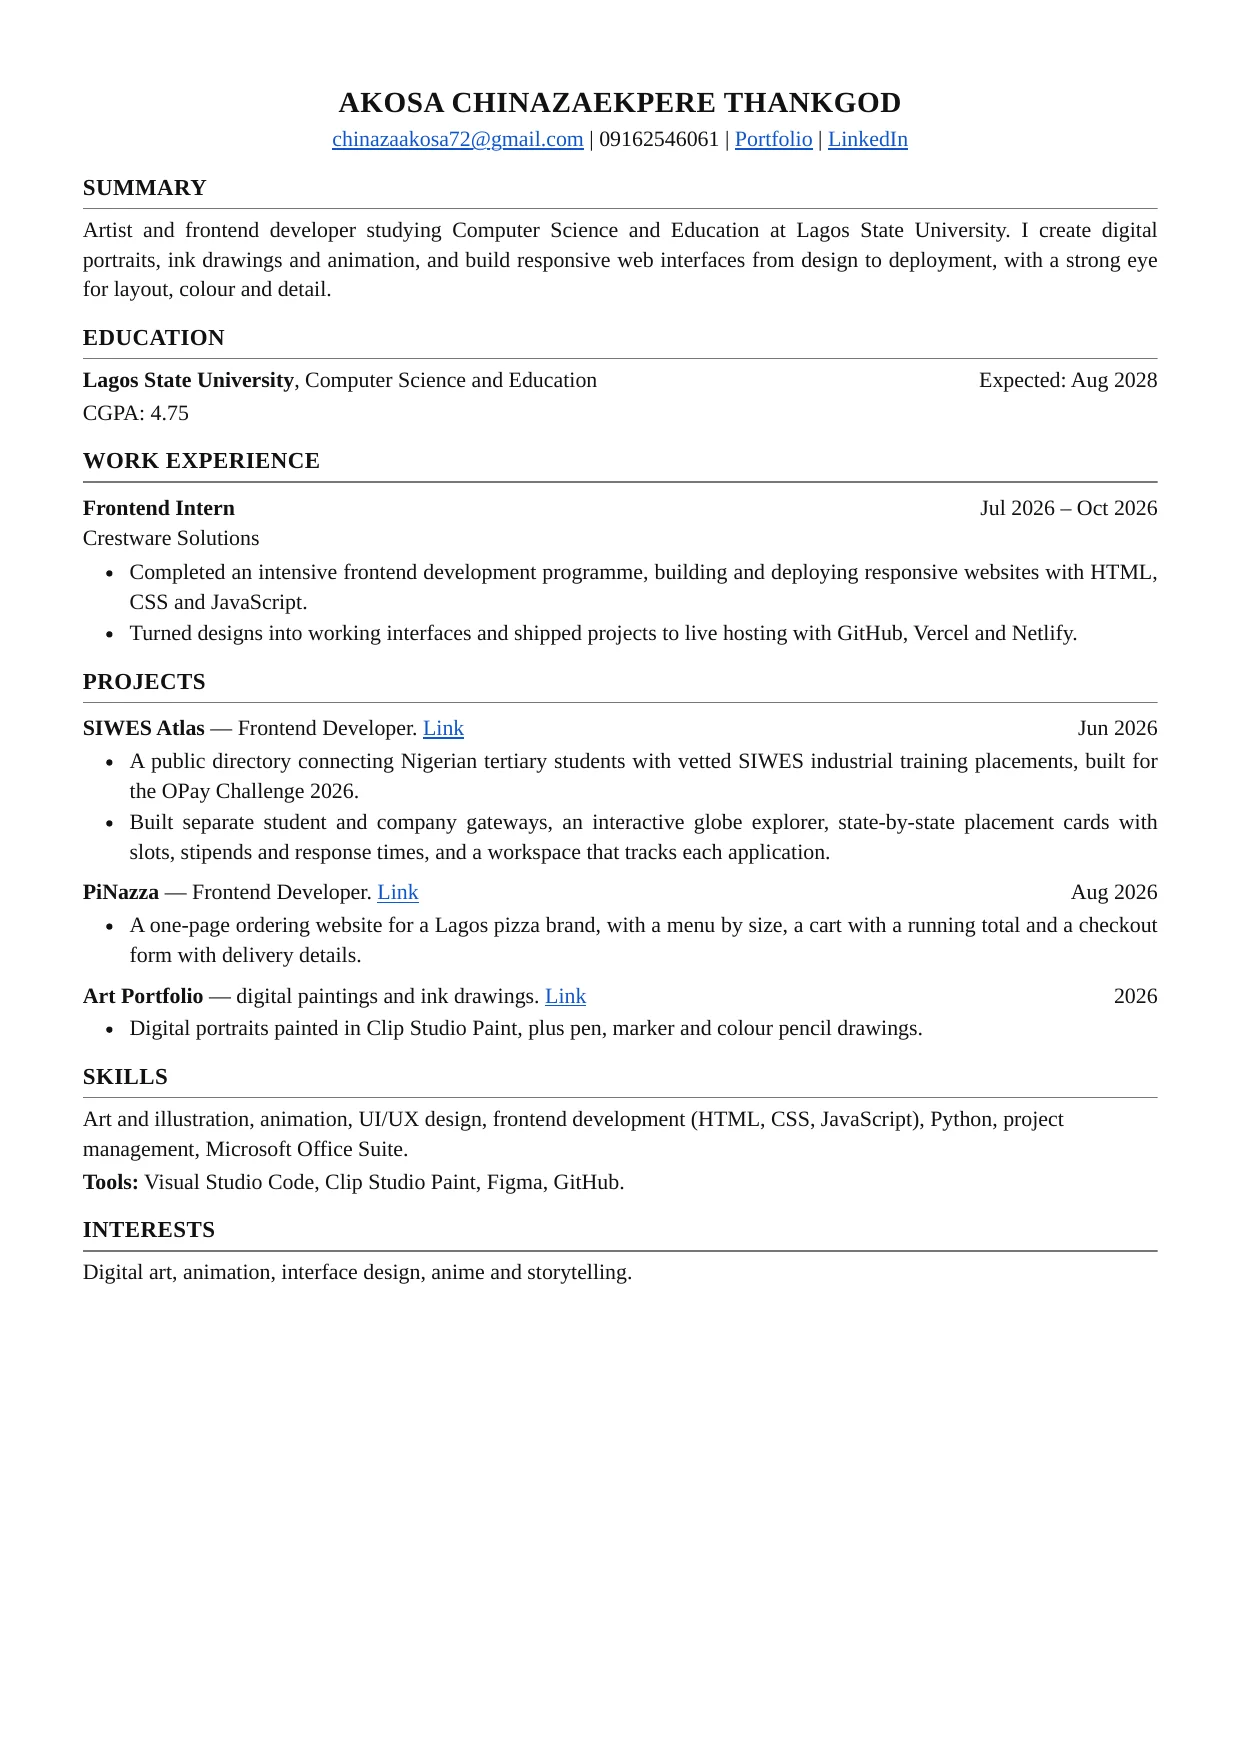
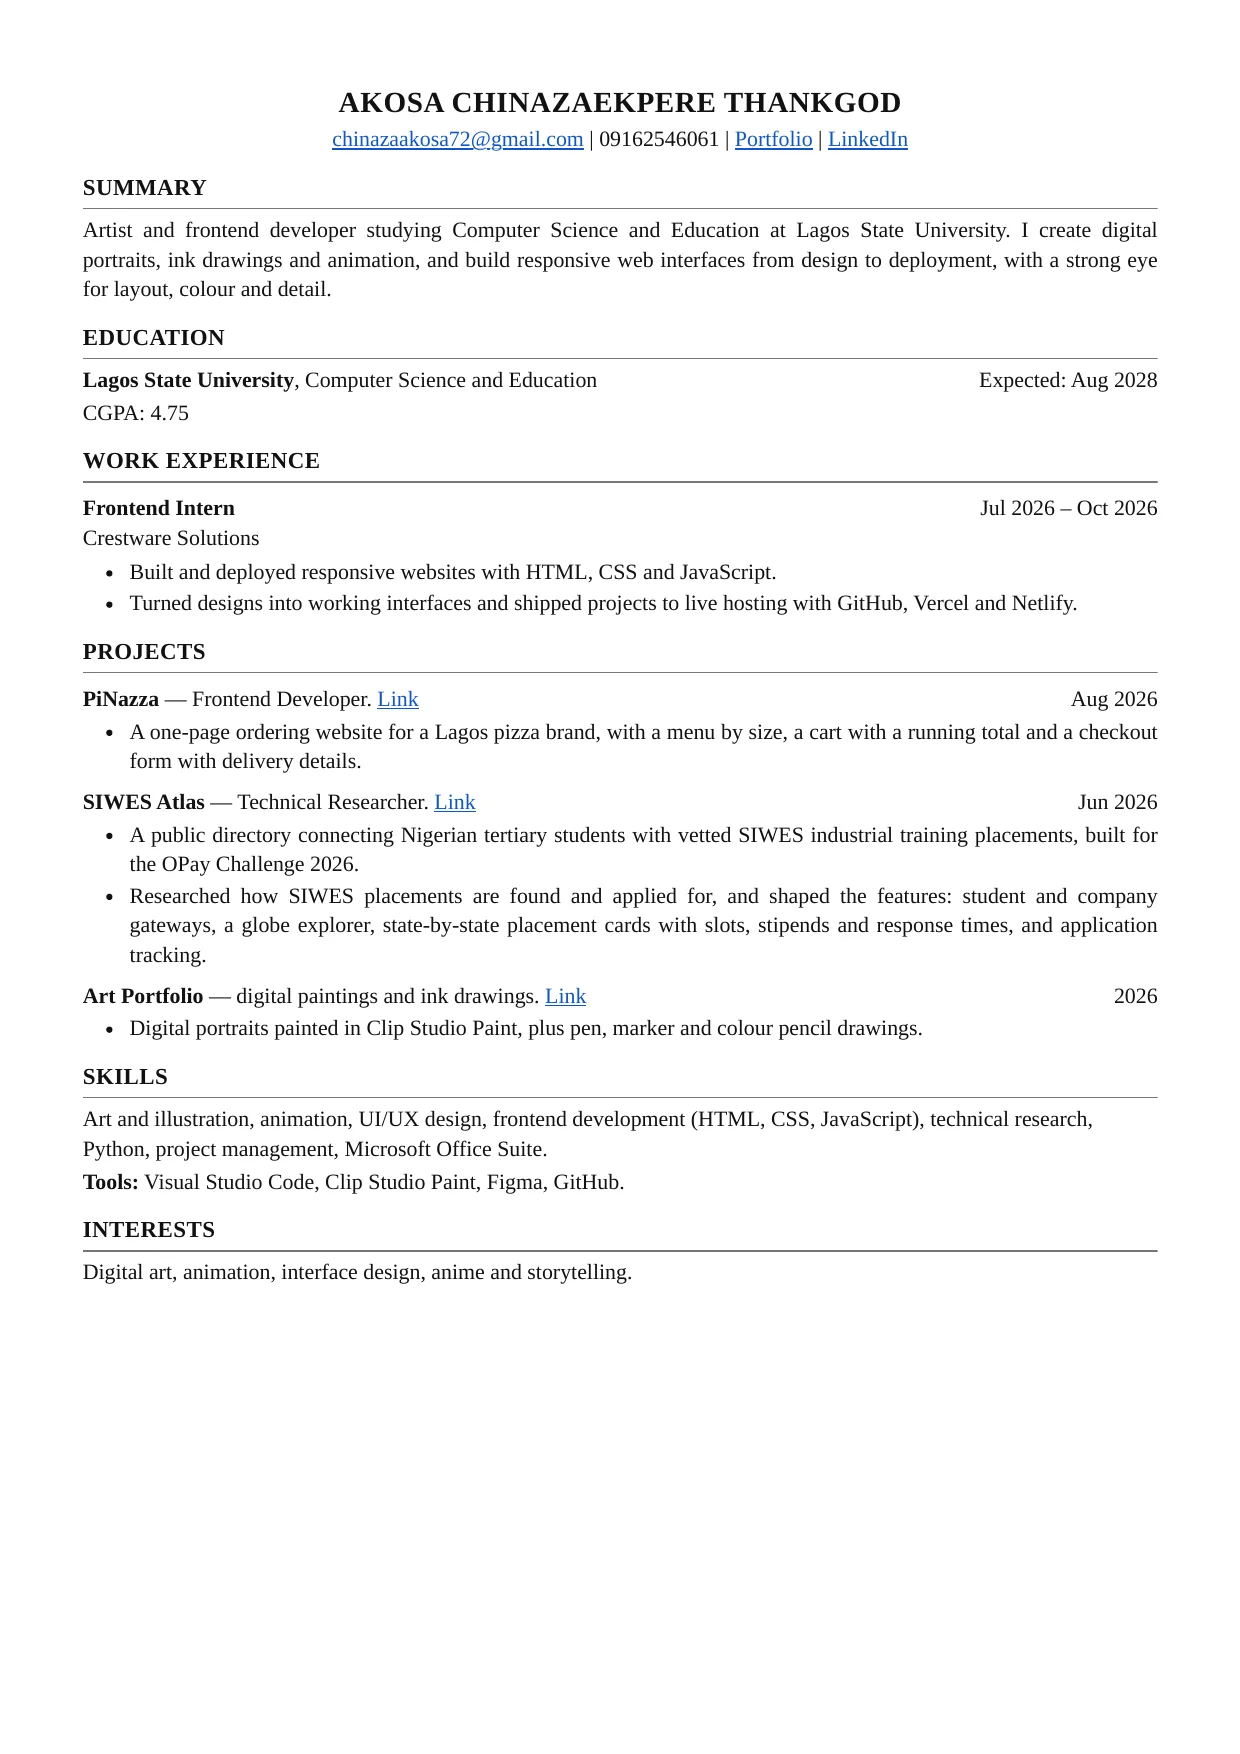
Name on one line, role under company, PiNazza first, SIWES Atlas as Technical Researcher, new footer row
Claude-Session: https://claude.ai/code/session_01FznZV5MkKYJcrxBuXv8rFi

diff --git a/index.html b/index.html
@@ -61,7 +61,7 @@ body.menu-on .hdr{opacity:0;pointer-events:none}
 .intro{padding:28px 0 12px}
 .frame{border-radius:22px;overflow:hidden;background:#fff;border:1px solid var(--line);aspect-ratio:4/4.4}
 .frame img{display:block;width:100%;height:100%;object-fit:cover;object-position:50% 30%}
-.intro h1{font-size:44px;line-height:1;letter-spacing:-.01em;margin:28px 0 6px}
+.intro h1{font-size:min(44px,10.4vw);line-height:1;letter-spacing:-.01em;margin:28px 0 6px;white-space:nowrap}
 .intro h1 i{color:var(--acc)}
 .role{margin:0 0 22px;color:var(--muted);font-size:17px}
 .intro p.t{font-size:19px;line-height:1.6;color:#3a3732;margin:0 0 16px}
@@ -123,7 +123,7 @@ section.blk{padding:72px 0 8px}
 
 /* footer */
 .foot{margin-top:56px;border-top:1px solid var(--line);overflow:hidden}
-.frow{display:flex;justify-content:space-between;align-items:center;gap:16px;padding:16px 0;font-size:15px;color:var(--muted);border-bottom:1px solid var(--line)}
+.frow{display:flex;justify-content:space-between;align-items:center;gap:16px;padding:20px 0;font-size:15px;color:var(--muted);border-bottom:1px solid var(--line)}
 .big{margin:14px 0 0;font-family:'IM Fell English',Georgia,serif;font-style:italic;font-size:30vw;line-height:1.1;text-align:center;white-space:nowrap;user-select:none;color:var(--fg)}
 .big span{display:inline-block;padding:0 .06em}
 
@@ -186,7 +186,6 @@ section.blk{padding:72px 0 8px}
 .dl{margin:22px 0 0}
 
 @media (max-width:520px){
-  .intro h1{font-size:38px}
   .intro p.t{font-size:17px}
   .gt{gap:6px}
   .gt a{border-radius:10px}
@@ -212,18 +211,14 @@ section.blk{padding:72px 0 8px}
   .intro .txt{order:1;padding-bottom:24px}
   .frame{order:2;border:0;border-radius:0;background:none;aspect-ratio:auto;align-self:stretch;display:flex;align-items:flex-end;justify-content:center}
   .frame img{mix-blend-mode:multiply;width:100%;height:auto;max-height:min(calc(100vh - 90px),760px);object-fit:contain;object-position:50% 100%}
-  .intro h1{font-size:76px;margin-top:0}
+  .intro h1{font-size:min(76px,5.4vw);margin-top:0}
   .role{font-size:19px;margin-bottom:28px}
   .intro p.t{font-size:20px;max-width:560px}
   section.blk{padding:104px 0 8px}
   .sh{font-size:46px}
   .gt{gap:14px}
   .gt a{aspect-ratio:3/4;border-radius:16px}
-  .xr{grid-template-columns:36px minmax(0,1.1fr) minmax(0,1fr) auto;gap:0 20px;align-items:center;padding:20px 0}
-  .xr>div{display:contents}
-  .xr .rl{margin-top:0}
-  .xr .yr{padding-top:0;text-align:right}
-  .logo{margin-top:0}
+  .xr{padding:20px 0}
   .art{aspect-ratio:16/8;padding:44px 64px 0}
   .ts{grid-template-columns:repeat(2,minmax(0,1fr));gap:0 48px}
   .ts h3{grid-row:1}
@@ -271,7 +266,7 @@ section.blk{padding:72px 0 8px}
         <h1>Akosa <i>Chinaza</i></h1>
         <p class="role">Artist &amp; Frontend Developer</p>
         <p class="t">I draw people the way light finds them: digital portraits, ink studies and fan art of the stories I grew up on. Then I bring the same eye to the web, turning designs into interfaces that feel considered down to the last pixel.</p>
-        <p class="t">I study Computer Science &amp; Education at Lagos State University, and I recently finished a frontend development intensive at Crestware Solutions.</p>
+        <p class="t">I study Computer Science &amp; Education at Lagos State University, and I recently finished a frontend internship at Crestware Solutions.</p>
         <p class="t">Open to work. Send a mail to <a class="u" href="mailto:chinazaakosa72@gmail.com">chinazaakosa72@gmail.com</a>, or reach me on <a class="u" href="https://www.linkedin.com/in/akosa-chinaza-a83200368" rel="noopener">LinkedIn</a>.</p>
       </div>
     </section>
@@ -285,9 +280,9 @@ section.blk{padding:72px 0 8px}
     <section class="blk" id="experience" aria-labelledby="exp-h">
       <h2 class="sh" id="exp-h">Experience</h2>
       <div class="xl">
-        <div class="xr"><span class="logo" aria-hidden="true">C</span><div><span class="co">Crestware Solutions</span><span class="rl">Frontend Intern · Frontend Development Intensive</span></div><span class="yr">Jul — Oct 2026</span></div>
+        <div class="xr"><span class="logo" aria-hidden="true">C</span><div><span class="co">Crestware Solutions</span><span class="rl">Frontend Intern</span></div><span class="yr">Jul — Oct 2026</span></div>
       </div>
-      <p class="open"><span class="dot" aria-hidden="true"></span>Open to work. <a href="mailto:chinazaakosa72@gmail.com">Reach out ↗</a> <span style="color:var(--muted);word-break:break-all">chinazaakosa72@gmail.com</span></p>
+      <p class="open"><span class="dot" aria-hidden="true"></span>Open to work. <a href="mailto:chinazaakosa72@gmail.com">Reach out ↗</a></p>
     </section>
 
     <section class="blk" id="projects" aria-labelledby="projects-h">
@@ -297,7 +292,7 @@ section.blk{padding:72px 0 8px}
 
     <section class="blk ts" id="skills" aria-label="Skills and tools">
       <h3>Skills</h3>
-      <p>Art &amp; Illustration<span class="d">·</span>Animation<span class="d">·</span>UI/UX Design<span class="d">·</span>Frontend Development<span class="d">·</span>Python<span class="d">·</span>Project Management<span class="d">·</span>Microsoft Office Suite</p>
+      <p>Art &amp; Illustration<span class="d">·</span>Animation<span class="d">·</span>UI/UX Design<span class="d">·</span>Frontend Development<span class="d">·</span>Technical Research<span class="d">·</span>Python<span class="d">·</span>Project Management<span class="d">·</span>Microsoft Office Suite</p>
       <h3>Tools</h3>
       <p>Visual Studio Code<span class="d">·</span>Clip Studio Paint<span class="d">·</span>Figma<span class="d">·</span>GitHub</p>
     </section>
@@ -345,7 +340,7 @@ section.blk{padding:72px 0 8px}
 
 <footer class="foot" id="contact">
   <div class="wrap">
-    <div class="frow"><span>©2026 — Made by Àmúró &amp; Klaus</span><span style="display:flex"><a class="ico" style="color:var(--muted)" href="mailto:chinazaakosa72@gmail.com" aria-label="Email chinazaakosa72@gmail.com"><svg viewBox="0 0 24 24" aria-hidden="true" style="fill:none;stroke:currentColor;stroke-width:1.7;stroke-linecap:round;stroke-linejoin:round;width:22px;height:22px"><rect x="3" y="5" width="18" height="14" rx="2.5"></rect><path d="M4 7l8 6 8-6"></path></svg></a><a class="ico" href="https://www.linkedin.com/in/akosa-chinaza-a83200368" rel="noopener" aria-label="LinkedIn" style="color:var(--muted)"><svg viewBox="0 0 24 24" aria-hidden="true"><path d="M20.45 20.45h-3.56v-5.57c0-1.33-.02-3.04-1.85-3.04-1.85 0-2.14 1.45-2.14 2.94v5.67H9.35V9h3.41v1.56h.05c.48-.9 1.64-1.85 3.37-1.85 3.6 0 4.27 2.37 4.27 5.46v6.28zM5.34 7.43a2.06 2.06 0 1 1 0-4.13 2.06 2.06 0 0 1 0 4.13zM7.12 20.45H3.56V9h3.56v11.45zM22.22 0H1.77C.79 0 0 .77 0 1.73v20.54C0 23.23.79 24 1.77 24h20.45c.98 0 1.78-.77 1.78-1.73V1.73C24 .77 23.2 0 22.22 0z"></path></svg></a></span></div>
+    <div class="frow"><span>Pucci ©2026</span><span>Made by Àmúró &amp; Klaus</span></div>
   </div>
   <p class="big" id="big" aria-hidden="true"><span>Akosa</span></p>
 </footer>
@@ -380,18 +375,18 @@ section.blk{padding:72px 0 8px}
   var TEASE = ['under-the-tree', 'red-and-blue', 'in-the-leaves', 'loser-sign'];
 
   var P = [
-    { id: 'siwes-atlas', name: 'SIWES Atlas', role: 'Frontend Developer', date: 'June 2026', url: 'https://siwes-atlas.vercel.app/',
-      art: { bg: '#123c33', win: '#f4f1e8', fg: '#14231e', acc: '#1d6b55', k: 'Centralized internships directory', h: 'Find the perfect SIWES placement.', s: 'A public repository connecting tertiary students with vetted industrial training roles.', b: 'Student gateway', hs: 30 },
-      overview: ['SIWES Atlas is a directory for SIWES, the Students\' Industrial Work Experience Scheme that Nigerian tertiary students go through. It puts vetted industrial training placements in one public place, so students can find a role and companies can list one. It was built as an entry to the OPay Challenge 2026.'],
-      challenge: ['Finding a SIWES placement usually means word of mouth, scattered posts and long silences after applying. Students can\'t see where the open slots are, whether a role is paid, or how long a company takes to reply.', ['Give students and companies their own way in.', 'Make placements easy to browse by location, length, pay and response time.', 'Let students track every application after they apply.']],
-      solution: { text: [['Separate student and company gateways. Students set up a profile with their CGPA and CV, and companies list slots with location, duration, stipend and response time.', 'An interactive globe explorer, with Nigeria as the first active region and more planned.', 'Postal-stamp cards for each state that show open slots, feedback periods and stipends.', 'A profile workspace that shows a student\'s details and tracks each application.', 'A step-by-step "transmitting application" screen as the CV is sent to the employer.']],
-        stills: [{ url: 'https://siwes-atlas.vercel.app/', y: 0, cap: 'Gateway' }, { url: 'https://siwes-atlas.vercel.app/', y: 900, cap: 'Explorer & directory' }] } },
     { id: 'pinazza', name: 'PiNazza', role: 'Frontend Developer', date: 'August 2026', url: 'https://pi-nazza.netlify.app/',
       art: { bg: '#c0392b', win: '#fff8ef', fg: '#2a1810', acc: '#e67e22', k: 'Lagos, Nigeria', h: 'Mouth watering circular breads', s: 'Freshly made pizza, straight from the oven.', b: 'Order now', hs: 30 },
       overview: ['PiNazza is a one-page website for a pizza business in Lagos. It shows off the popular pizzas, takes orders by size and runs customers through to payment, all without leaving the page.'],
       challenge: ['Make a small food brand feel appetising online and keep ordering simple: pick a pizza, choose a size, pay, done.'],
       solution: { text: [['A hero with an "order now" button that jumps straight to the menu.', 'Popular pizzas, then a menu with small, medium and large sizes.', 'A cart with a running total and a payment form with delivery details.', 'A "today\'s special" offer, what sets the brand apart, an about section and contact details.']],
-        stills: [{ url: 'https://pi-nazza.netlify.app/', y: 0, cap: 'Hero' }, { url: 'https://pi-nazza.netlify.app/', y: 900, cap: 'Popular pizzas' }, { url: 'https://pi-nazza.netlify.app/', y: 1800, cap: 'Menu & cart' }, { url: 'https://pi-nazza.netlify.app/', y: 2700, cap: 'Today\'s special' }] } }
+        stills: [{ url: 'https://pi-nazza.netlify.app/', y: 0, cap: 'Hero' }, { url: 'https://pi-nazza.netlify.app/', y: 900, cap: 'Popular pizzas' }, { url: 'https://pi-nazza.netlify.app/', y: 1800, cap: 'Menu & cart' }, { url: 'https://pi-nazza.netlify.app/', y: 2700, cap: 'Today\'s special' }] } },
+    { id: 'siwes-atlas', name: 'SIWES Atlas', role: 'Technical Researcher', date: 'June 2026', url: 'https://siwes-atlas.vercel.app/',
+      art: { bg: '#123c33', win: '#f4f1e8', fg: '#14231e', acc: '#1d6b55', k: 'Centralized internships directory', h: 'Find the perfect SIWES placement.', s: 'A public repository connecting tertiary students with vetted industrial training roles.', b: 'Student gateway', hs: 30 },
+      overview: ['SIWES Atlas is a directory for SIWES, the Students\' Industrial Work Experience Scheme that Nigerian tertiary students go through. It puts vetted industrial training placements in one public place, so students can find a role and companies can list one. It was built as an entry to the OPay Challenge 2026.'],
+      challenge: ['Finding a SIWES placement usually means word of mouth, scattered posts and long silences after applying. Students can\'t see where the open slots are, whether a role is paid, or how long a company takes to reply.', ['Give students and companies their own way in.', 'Make placements easy to browse by location, length, pay and response time.', 'Let students track every application after they apply.']],
+      solution: { text: [['Separate student and company gateways. Students set up a profile with their CGPA and CV, and companies list slots with location, duration, stipend and response time.', 'An interactive globe explorer, with Nigeria as the first active region and more planned.', 'Postal-stamp cards for each state that show open slots, feedback periods and stipends.', 'A profile workspace that shows a student\'s details and tracks each application.', 'A step-by-step "transmitting application" screen as the CV is sent to the employer.']],
+        stills: [{ url: 'https://siwes-atlas.vercel.app/', y: 0, cap: 'Gateway' }, { url: 'https://siwes-atlas.vercel.app/', y: 900, cap: 'Explorer & directory' }] } }
   ];
 
   function esc(s) { return String(s).replace(/[&<>"]/g, function (c) { return { '&': '&amp;', '<': '&lt;', '>': '&gt;', '"': '&quot;' }[c]; }); }

diff --git a/docs/cv-source.html b/docs/cv-source.html
@@ -35,23 +35,23 @@ a{color:#1155cc}
   <div class="row"><span class="t">Frontend Intern</span><span>Jul 2026 – Oct 2026</span></div>
   <div class="row"><span>Crestware Solutions</span><span></span></div>
   <ul>
-    <li>Completed an intensive frontend development programme, building and deploying responsive websites with HTML, CSS and JavaScript.</li>
+    <li>Built and deployed responsive websites with HTML, CSS and JavaScript.</li>
     <li>Turned designs into working interfaces and shipped projects to live hosting with GitHub, Vercel and Netlify.</li>
   </ul>
 </div>
 
 <h2>Projects</h2>
 <div class="role">
-  <div class="row"><span><b>SIWES Atlas</b> — Frontend Developer. <a href="https://siwes-atlas.vercel.app">Link</a></span><span>Jun 2026</span></div>
-  <ul>
-    <li>A public directory connecting Nigerian tertiary students with vetted SIWES industrial training placements, built for the OPay Challenge 2026.</li>
-    <li>Built separate student and company gateways, an interactive globe explorer, state-by-state placement cards with slots, stipends and response times, and a workspace that tracks each application.</li>
-  </ul>
-</div>
-<div class="role">
   <div class="row"><span><b>PiNazza</b> — Frontend Developer. <a href="https://pi-nazza.netlify.app">Link</a></span><span>Aug 2026</span></div>
   <ul>
     <li>A one-page ordering website for a Lagos pizza brand, with a menu by size, a cart with a running total and a checkout form with delivery details.</li>
+  </ul>
+</div>
+<div class="role">
+  <div class="row"><span><b>SIWES Atlas</b> — Technical Researcher. <a href="https://siwes-atlas.vercel.app">Link</a></span><span>Jun 2026</span></div>
+  <ul>
+    <li>A public directory connecting Nigerian tertiary students with vetted SIWES industrial training placements, built for the OPay Challenge 2026.</li>
+    <li>Researched how SIWES placements are found and applied for, and shaped the features: student and company gateways, a globe explorer, state-by-state placement cards with slots, stipends and response times, and application tracking.</li>
   </ul>
 </div>
 <div class="role">
@@ -62,7 +62,7 @@ a{color:#1155cc}
 </div>
 
 <h2>Skills</h2>
-<p>Art and illustration, animation, UI/UX design, frontend development (HTML, CSS, JavaScript), Python, project management, Microsoft Office Suite.</p>
+<p>Art and illustration, animation, UI/UX design, frontend development (HTML, CSS, JavaScript), technical research, Python, project management, Microsoft Office Suite.</p>
 <p><b>Tools:</b> Visual Studio Code, Clip Studio Paint, Figma, GitHub.</p>
 
 <h2>Interests</h2>

diff --git a/docs/cover-letter-source.html b/docs/cover-letter-source.html
@@ -28,7 +28,7 @@ li{margin:2px 0}
 
 <p>I started as an artist. Painting portraits taught me to notice light, colour and the small details that make something feel finished, and when I found frontend development I realised the same instincts apply to every screen people use. Today I do both: I draw, and I build interfaces that look the way they were meant to.</p>
 
-<p>During my frontend development internship at Crestware Solutions, I built and deployed responsive websites and learnt to take a design all the way to a live product. I built SIWES Atlas for the OPay Challenge 2026: a directory that connects Nigerian students with vetted SIWES placements, with separate student and company gateways, an interactive explorer and application tracking. I also built PiNazza, an ordering website for a pizza brand with a menu, cart and checkout.</p>
+<p>During my frontend development internship at Crestware Solutions, I built and deployed responsive websites and learnt to take a design all the way to a live product. I built PiNazza, an ordering website for a pizza brand with a menu, cart and checkout. As technical researcher on SIWES Atlas, an OPay Challenge 2026 entry that connects Nigerian students with vetted SIWES placements, I researched how students find and apply for placements and helped shape its gateways, explorer and application tracking.</p>
 
 <p>Alongside my Computer Science and Education degree at Lagos State University, I keep painting in Clip Studio Paint and drawing by hand, and I design in Figma before I write code. I would welcome the chance to bring that mix of creativity and technical care to your team, learn from experienced developers and designers, and help build products people enjoy using.</p>
 
